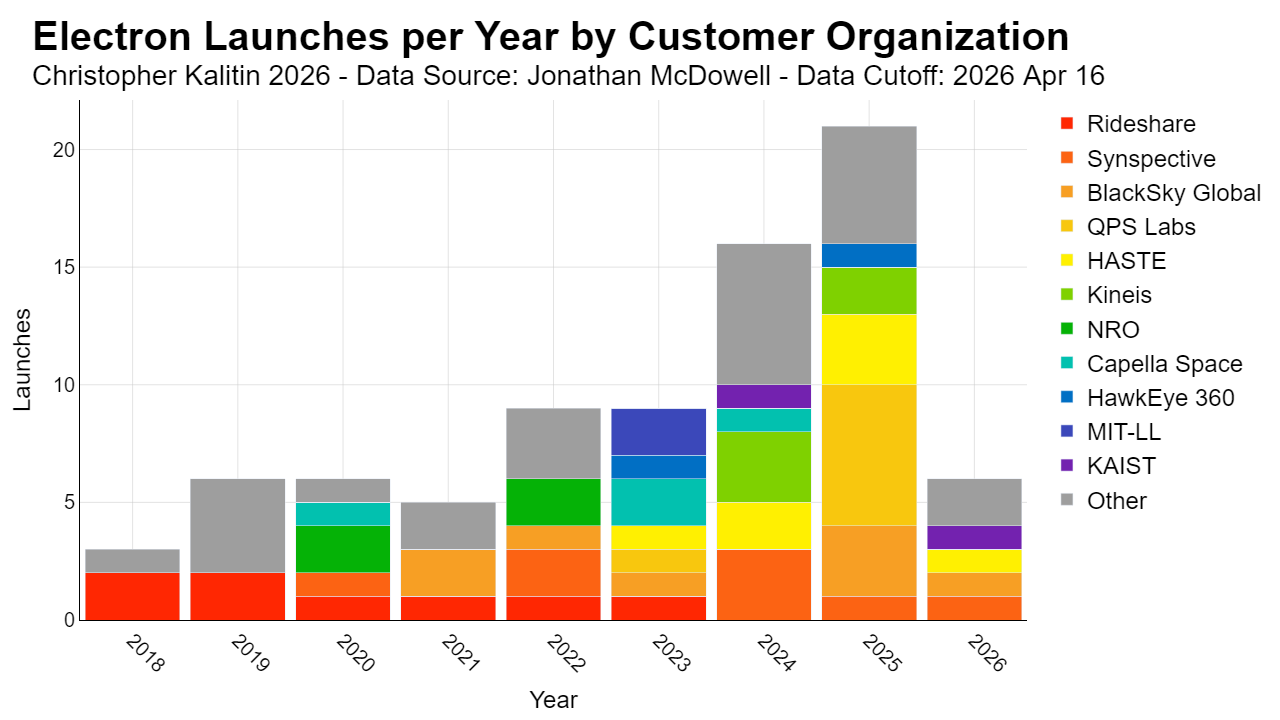
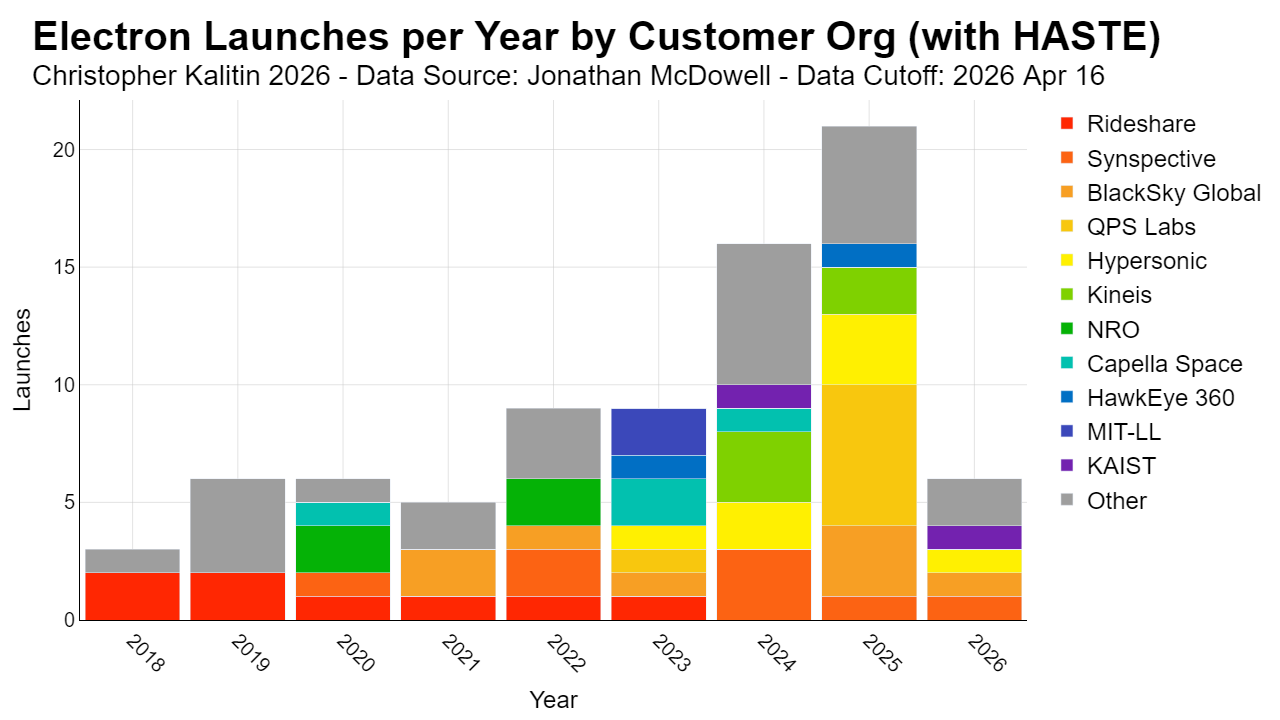
with and without hypersonic

Changed region(s): [[0.6875, 0.0306, 0.9062, 0.0917], [0.8438, 0.3361, 0.9375, 0.3972]]

diff --git a/src/standard_chart_generation.py b/src/standard_chart_generation.py
@@ -2611,28 +2611,30 @@ def electron_launches(
     org_top_n=10,
     org_color_map=None,
     category_color_map=None,
+    include_haste=True,
     save_raw_df=False,
     raw_df_title=None,
 ):
     """Per-year bar charts of Electron satellite launches by customer org and by mission category.
 
-    Excludes Hypersonic / suborbital Electron flights (MACH-TB, DYNAMO-A series).
     Rideshare rule: >5 payloads, >2 distinct owners, no owner >=80% of payloads.
     """
     _CATEGORY_ORDER = [
         'Constellation (Earth obs)', 'Constellation (SAR)',
         'Constellation (SSA)', 'Constellation (Comms)',
-        'Commercial', 'Rideshare', 'Government', 'Military', 'HASTE', 'Other',
+        'Commercial', 'Rideshare', 'Government', 'Military', 'Hypersonic', 'Other',
     ]
 
     dataset = mda.McdowellDataset('./datasets')
     launch_df = dataset.launch.df
     satcat_df = dataset.satcat.df
 
-    # All Electron launches: satellites + HASTE (Hypersonic suborbital)
+    # All Electron launches: satellites + optionally Hypersonic suborbital
+    cat_filter = launch_df['Category'].str.startswith('Sat', na=False)
+    if include_haste:
+        cat_filter = cat_filter | (launch_df['Category'] == 'Hypersonic')
     el = launch_df[
-        (launch_df['Launch_Vehicle_Simplified'] == 'Electron') &
-        (launch_df['Category'].str.startswith('Sat', na=False) | (launch_df['Category'] == 'Hypersonic'))
+        (launch_df['Launch_Vehicle_Simplified'] == 'Electron') & cat_filter
     ].copy()
     el['Year'] = el['Launch_Date'].dt.year
     if start_year:
@@ -2674,8 +2676,8 @@ def electron_launches(
             'Year': launch_row['Year'],
             'Mission': launch_row['Mission'],
             'Launch_Date': launch_row['Launch_Date'],
-            'Org': 'HASTE',
-            'Category': 'HASTE',
+            'Org': 'Hypersonic',
+            'Category': 'Hypersonic',
             'N_Payloads': 0,
         })
     launch_classified = pd.DataFrame(rows).sort_values('Launch_Date')
@@ -2689,6 +2691,8 @@ def electron_launches(
     if save_raw_df:
         df_name = raw_df_title if raw_df_title else output_name_by_org
         mda.ChartUtils.log_and_save_df('dataframe', df_name, output_prefix, launch_classified)
+
+    _title_suffix = ' (with HASTE)' if include_haste else ' (Orbital)' # This one we call HASTE instead of hypersonic as used elsewhere just do to title length constraints in the image
 
     # --- Chart 1: by customer org ---
     org_counts = launch_classified['Org'].value_counts()
@@ -2711,7 +2715,7 @@ def electron_launches(
     mda.ChartUtils.log_and_save_df('csv', output_name_by_org, output_prefix, org_pivot)
     mda.ChartUtils.plot_bar(
         org_pivot,
-        title=f'{chart_title_prefix} Launches per Year by Customer Organization',
+        title=f'{chart_title_prefix} Launches per Year by Customer Org{_title_suffix}',
         subtitle=subtitle,
         x_label='Year', y_label='Launches',
         output_path=f'examples/outputs/chart/{output_prefix}/{output_name_by_org}.png',
@@ -2726,7 +2730,7 @@ def electron_launches(
     mda.ChartUtils.log_and_save_df('csv', output_name_by_category, output_prefix, cat_pivot)
     mda.ChartUtils.plot_bar(
         cat_pivot,
-        title=f'{chart_title_prefix} Launches per Year by Mission Category',
+        title=f'{chart_title_prefix} Launches per Year by Mission Category{_title_suffix}',
         subtitle=subtitle,
         x_label='Year', y_label='Launches',
         output_path=f'examples/outputs/chart/{output_prefix}/{output_name_by_category}.png',

diff --git a/examples/commercial_western_charts.py b/examples/commercial_western_charts.py
@@ -4,11 +4,24 @@ import standard_chart_generation as scg
 scg.electron_launches(
     chart_title_prefix='Electron',
     output_prefix='western',
+    output_name_by_category='electron_launches_by_category',
     start_year=2017,
     org_top_n=10,
     org_color_map=scg.mda.ChartUtils.color_sequence_3_12 + ['#9e9e9e'],
+    include_haste=True,
     save_raw_df=True,
     raw_df_title='electron_launches_classified',
+)
+
+scg.electron_launches(
+    chart_title_prefix='Electron',
+    output_prefix='western',
+    output_name_by_org='electron_launches_by_org_no_hypersonic',
+    output_name_by_category='electron_launches_by_category_no_hypersonic',
+    start_year=2017,
+    org_top_n=10,
+    org_color_map=scg.mda.ChartUtils.color_sequence_3_12 + ['#9e9e9e'],
+    include_haste=False,
 )
 
 # --- Small sat 2018-2025 (megaconstellations excluded) ---

diff --git a/src/chart_utils.py b/src/chart_utils.py
@@ -97,7 +97,7 @@ class ChartUtils:
         'Commercial':                '#fbbc04',
         'Government':                '#008F11',
         'Military':                  '#cc0000',
-        'HASTE':                     "#3B3C3D",
+        'Hypersonic':                "#3B3C3D",
         'Other':                     '#434343',
     }
 

diff --git a/version2.md b/version2.md
@@ -11,3 +11,4 @@ Things to really optimize for using it with Claude in the next version:
 - Rules should be dictionaries or something (Claude can think of the best implementation), easy to see and edit and add
 - Some more cases for what I'd want to sort, eg. don't include programs with >50 sats at the 200-500 kg class, eg. if I want to exclude SDA satellites. Note the original search for "don't include programs" should be substitutable for "don't include X"
 - An automated pipeline for an LLM to compare a launch to eg. Gunters Space Page for categorization would be amazing. Eg. take in a name and cospar id and some other context, search it and find out if it's properly labelled automatically. I love language models with web search!
+- It's annoying to generate 50 chatrs in one file, I need some way of triggering regeneration of a single chart that doesn't go through the entire file. This should also be an elegant solution that's very easy. In the limit, the best you could do is I click something and it regenerates, eg. like in Google Sheets where you click the three dots > update and it's updated. You probably won't get quite to that limit, but this serves as a user interface point to consider. CLI maybe? make it a really nice yet utilitarian interface.
